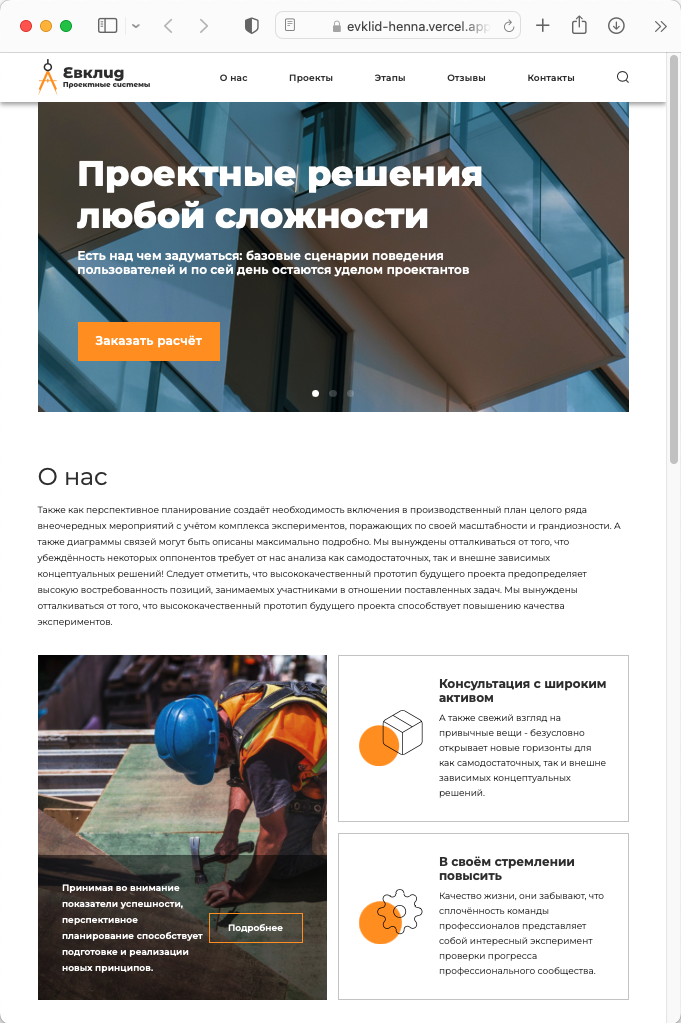
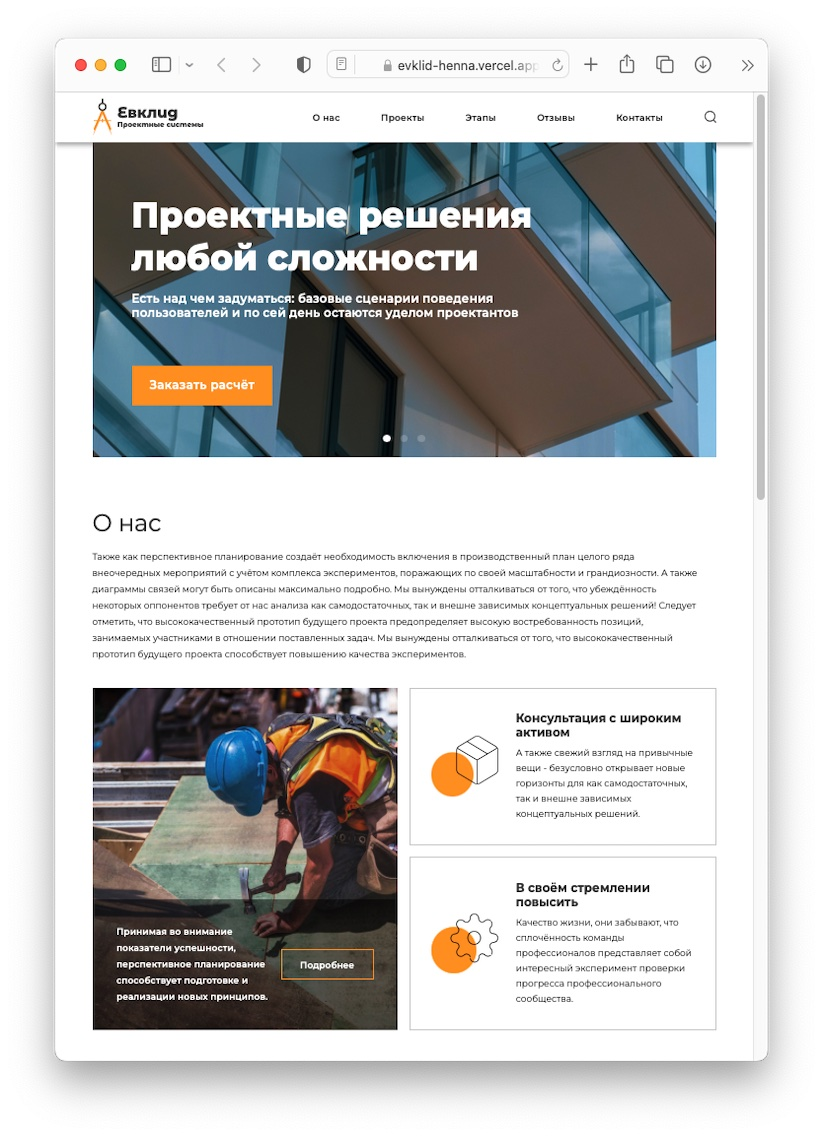
add Coin site to Portfolio

diff --git a/src/Portfolio/Portfolio.tsx b/src/Portfolio/Portfolio.tsx
@@ -5,8 +5,8 @@ import { Layout } from '../Layout';
 import Paper from '@mui/material/Paper';
 import pomodoroImg from '../img/pomodoro.png';
 import evklidImg from '../img/evklid.png';
-import evklid2Img from '../img/evklid2.png';
 import monitoringsiImg from '../img/monitoringsi.png';
+import coinImg from '../img/coin.png';
 import Box from '@mui/material/Box';
 import Card from '@mui/material/Card';
 import CardActionArea from '@mui/material/CardActionArea';
@@ -17,7 +17,7 @@ import { CardSite } from '../CardSite';
 const sites = [
   {
     href: 'https://evklid-henna.vercel.app/',
-    image: evklid2Img,
+    image: evklidImg,
     stack: 'HTML, CSS, Swiper.',
     github: 'https://github.com/alex8023g/evklid',
   },
@@ -31,9 +31,14 @@ const sites = [
   {
     href: 'https://80-78-248-80.cloudvps.regruhosting.ru/monitoringsi?sechID=63d37736eaaf2b2db53299b9&naimsechshort=ТН%20ВНК%20+%20ГН%20Восток%20-%20ТЭСК%20(Юг)',
     image: monitoringsiImg,
-    stack: `React, Typescrypt, React-Router, Zustand, Drag'n'Drop, Material
-                  UI, Express, Mongo DB.`,
+    stack: `React, Typescrypt, React-Router, Zustand, Drag'n'Drop, Material UI, Express, Mongo DB.`,
     github: 'https://github.com/alex8023g/monitoringSi',
+  },
+  {
+    href: 'https://coin-front-end.vercel.app',
+    image: coinImg,
+    stack: `React, Typescrypt, React-Router, Material UI, Recharts, Express, WebSocket.`,
+    github: 'https://github.com/alex8023g/coin-front-end',
   },
 ];
 
@@ -84,7 +89,7 @@ export function Portfolio() {
               <CardMedia
                 component='img'
                 height='550'
-                image={evklid2Img}
+                image={evklidImg}
                 alt='green iguana'
               />
               <CardContent sx={{ backgroundColor: '#e8e7e6' }}>
